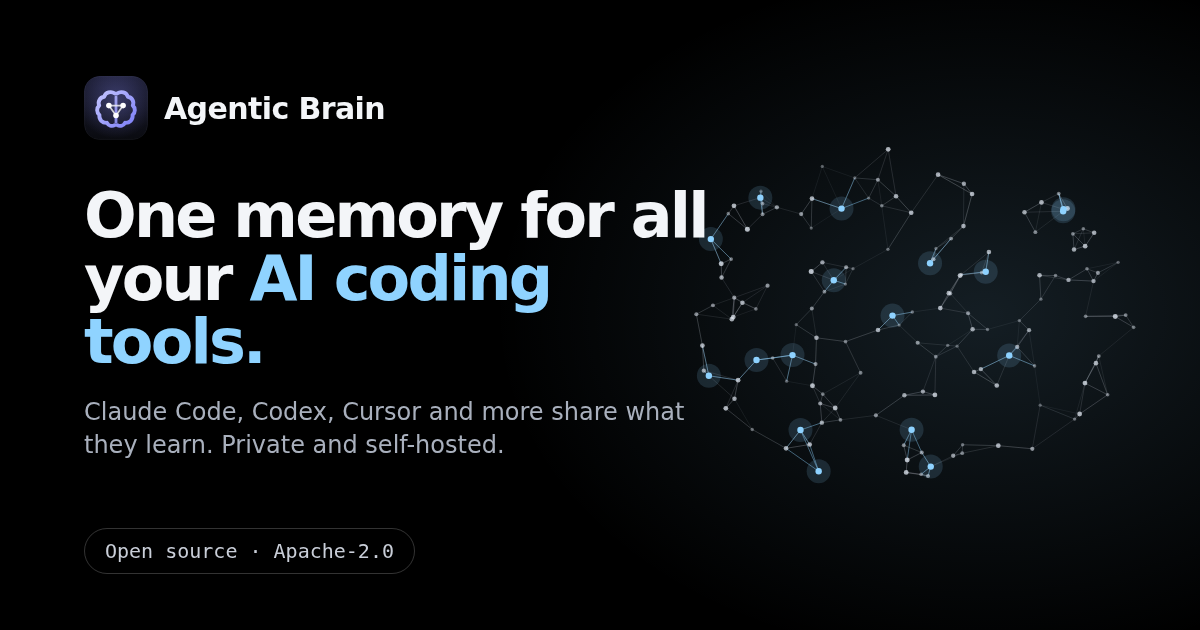
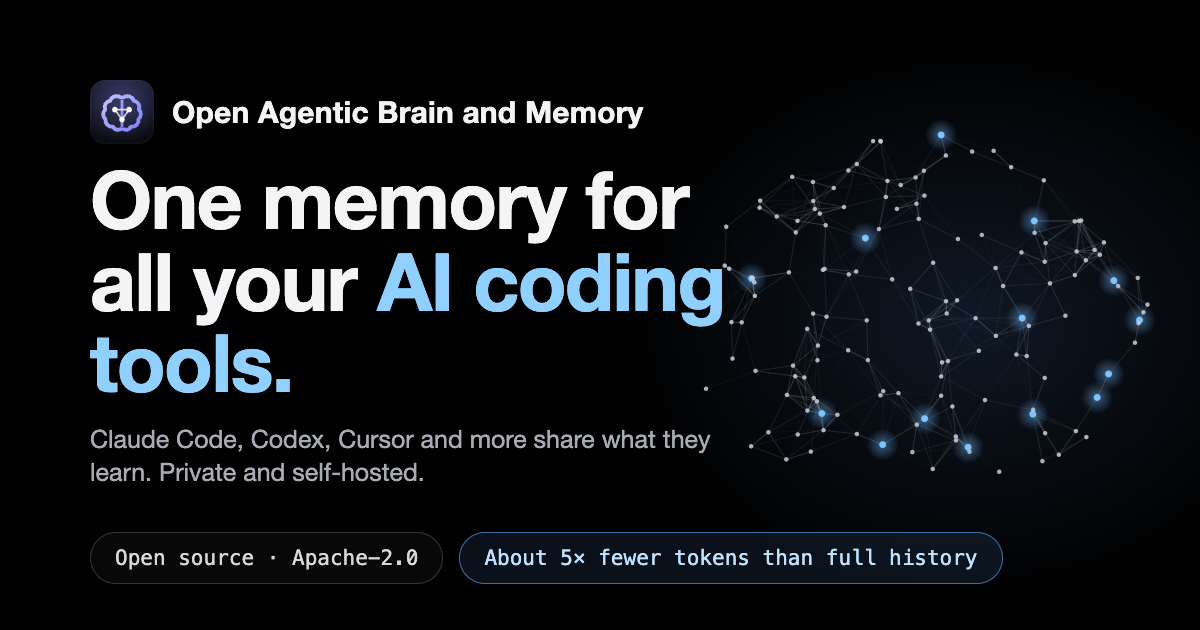
Share card: new name, tokens line, source template (_src/og); cache-bust og image

diff --git a/_src/og/og.html b/_src/og/og.html
@@ -1,0 +1,34 @@
+<!doctype html>
+<!-- Source for img/og.png (the link-preview card). Render: see _src/og/README.md -->
+<html><head><meta charset="utf-8"><title>og</title>
+<style>
+  *{box-sizing:border-box;margin:0}
+  html,body{width:1200px;height:630px;background:#000;overflow:hidden}
+  body{position:relative;font-family:"Helvetica Neue",Helvetica,Arial,sans-serif;color:#f4f4f6}
+  .glow{position:absolute;right:-120px;top:40px;width:700px;height:560px;border-radius:50%;background:radial-gradient(closest-side,rgba(70,110,170,.22),rgba(0,0,0,0))}
+  canvas{position:absolute;right:30px;top:100px}
+  .brand{position:absolute;left:90px;top:80px;display:flex;align-items:center;gap:18px;font-size:30px;font-weight:700;letter-spacing:.2px}
+  .brand img{width:64px;height:64px;border-radius:15px}
+  h1{position:absolute;left:90px;top:158px;width:700px;font-size:80px;line-height:1.02;font-weight:800;letter-spacing:-1.5px}
+  h1 b{color:#8fd0ff;font-weight:800}
+  p.sub{position:absolute;left:90px;top:422px;width:660px;font-size:25px;line-height:1.32;color:#a9abb4}
+  .pills{position:absolute;left:90px;bottom:46px;display:flex;gap:16px}
+  .pill{font-family:"SF Mono",Menlo,monospace;font-size:21px;padding:13px 24px;border-radius:40px;border:1.5px solid #34353b;color:#d7d8de;background:rgba(255,255,255,.03)}
+  .pill.tok{border-color:#3f6fa6;color:#bfe3ff;background:rgba(80,140,210,.12)}
+</style></head><body>
+<div class="glow"></div><canvas id="g" width="520" height="440"></canvas>
+<div class="brand"><img src="../../img/icon.svg" alt="">Open Agentic Brain and Memory</div>
+<h1>One memory for all your <b>AI coding tools.</b></h1>
+<p class="sub">Claude Code, Codex, Cursor and more share what they learn. Private and self-hosted.</p>
+<div class="pills"><span class="pill">Open source · Apache-2.0</span><span class="pill tok">About 5× fewer tokens than full history</span></div>
+<script>
+// Deterministic node graph (seeded), so the card renders the same every time.
+let s=7;const r=()=>((s=(s*16807)%2147483647)/2147483647);
+const c=document.getElementById('g').getContext('2d'),W=520,H=440,pts=[];
+for(let i=0;i<150;i++){const a=r()*6.283,d=Math.sqrt(r());pts.push([W/2+Math.cos(a)*d*W*.46,H/2+Math.sin(a)*d*H*.44*(0.9+.1*Math.sin(a*3))])}
+c.lineWidth=1;
+for(let i=0;i<pts.length;i++)for(let j=i+1;j<pts.length;j++){const dx=pts[i][0]-pts[j][0],dy=pts[i][1]-pts[j][1],dd=Math.hypot(dx,dy);
+ if(dd<62&&r()<.55){c.strokeStyle=`rgba(190,200,215,${.34*(1-dd/62)})`;c.beginPath();c.moveTo(...pts[i]);c.lineTo(...pts[j]);c.stroke()}}
+pts.forEach((p,i)=>{const hot=i%11===0;if(hot){const g=c.createRadialGradient(p[0],p[1],0,p[0],p[1],16);g.addColorStop(0,'rgba(120,190,255,.45)');g.addColorStop(1,'rgba(120,190,255,0)');c.fillStyle=g;c.beginPath();c.arc(p[0],p[1],16,0,7);c.fill()}
+ c.fillStyle=hot?'#7cc4ff':'rgba(200,205,215,.85)';c.beginPath();c.arc(p[0],p[1],hot?3.4:2.2,0,7);c.fill()});
+</script></body></html>

diff --git a/index.html b/index.html
@@ -18,11 +18,11 @@ try{if(localStorage.getItem('ab-consent')==='granted')abLoadGA();}catch(e){}</sc
 <meta property="og:url" content="https://rohithhn.github.io/brain-site/">
 <meta property="og:title" content="Open Agentic Brain and Memory: Memory for AI Coding Agents">
 <meta property="og:description" content="One private, self-hosted memory shared by Claude Code, Codex, Cursor, Antigravity and Kilo Code. It remembers decisions across sessions and tools.">
-<meta property="og:image" content="https://rohithhn.github.io/brain-site/img/og.png">
+<meta property="og:image" content="https://rohithhn.github.io/brain-site/img/og.png?v=2">
 <meta property="og:image:width" content="1200">
 <meta property="og:image:height" content="630">
 <meta name="twitter:card" content="summary_large_image">
-<meta name="twitter:image" content="https://rohithhn.github.io/brain-site/img/og.png">
+<meta name="twitter:image" content="https://rohithhn.github.io/brain-site/img/og.png?v=2">
 <script type="application/ld+json">
 {"@context":"https://schema.org","@graph":[
  {"@type":"SoftwareApplication","name":"Open Agentic Brain and Memory","url":"https://rohithhn.github.io/brain-site/",
@@ -30,7 +30,7 @@ try{if(localStorage.getItem('ab-consent')==='granted')abLoadGA();}catch(e){}</sc
   "applicationCategory":"DeveloperApplication","operatingSystem":"macOS, Linux","license":"https://www.apache.org/licenses/LICENSE-2.0",
   "offers":{"@type":"Offer","price":"0","priceCurrency":"USD"},
   "downloadUrl":"https://github.com/rohithhn/Open-Agentic-Brain-and-Memory","codeRepository":"https://github.com/rohithhn/Open-Agentic-Brain-and-Memory",
-  "image":"https://rohithhn.github.io/brain-site/img/og.png",
+  "image":"https://rohithhn.github.io/brain-site/img/og.png?v=2",
   "author":[{"@type":"Person","name":"Rohith"},{"@type":"Person","name":"Chandan"},{"@type":"Person","name":"Sushmita"}]},
  {"@type":"WebSite","name":"Open Agentic Brain and Memory","url":"https://rohithhn.github.io/brain-site/"}
 ]}

diff --git a/contact.html b/contact.html
@@ -18,11 +18,11 @@ try{if(localStorage.getItem('ab-consent')==='granted')abLoadGA();}catch(e){}</sc
 <meta property="og:url" content="https://rohithhn.github.io/brain-site/contact.html">
 <meta property="og:title" content="Contact Open Agentic Brain and Memory">
 <meta property="og:description" content="How to reach the Open Agentic Brain and Memory team: email, GitHub issues and private security reports.">
-<meta property="og:image" content="https://rohithhn.github.io/brain-site/img/og.png">
+<meta property="og:image" content="https://rohithhn.github.io/brain-site/img/og.png?v=2">
 <meta property="og:image:width" content="1200">
 <meta property="og:image:height" content="630">
 <meta name="twitter:card" content="summary_large_image">
-<meta name="twitter:image" content="https://rohithhn.github.io/brain-site/img/og.png">
+<meta name="twitter:image" content="https://rohithhn.github.io/brain-site/img/og.png?v=2">
 
 <meta name="theme-color" content="#000000">
 <link rel="icon" type="image/svg+xml" href="img/icon.svg"><link rel="icon" type="image/png" sizes="32x32" href="img/icon-32.png"><link rel="apple-touch-icon" href="img/apple-touch-icon.png">

diff --git a/journey.html b/journey.html
@@ -18,11 +18,11 @@ try{if(localStorage.getItem('ab-consent')==='granted')abLoadGA();}catch(e){}</sc
 <meta property="og:url" content="https://rohithhn.github.io/brain-site/journey.html">
 <meta property="og:title" content="One Memory's Journey">
 <meta property="og:description" content="Follow one decision from a Claude Code session to a different tool on a different laptop.">
-<meta property="og:image" content="https://rohithhn.github.io/brain-site/img/og.png">
+<meta property="og:image" content="https://rohithhn.github.io/brain-site/img/og.png?v=2">
 <meta property="og:image:width" content="1200">
 <meta property="og:image:height" content="630">
 <meta name="twitter:card" content="summary_large_image">
-<meta name="twitter:image" content="https://rohithhn.github.io/brain-site/img/og.png">
+<meta name="twitter:image" content="https://rohithhn.github.io/brain-site/img/og.png?v=2">
 
 <meta name="theme-color" content="#000000">
 <link rel="icon" type="image/svg+xml" href="img/icon.svg"><link rel="icon" type="image/png" sizes="32x32" href="img/icon-32.png"><link rel="apple-touch-icon" href="img/apple-touch-icon.png">

diff --git a/privacy.html b/privacy.html
@@ -18,11 +18,11 @@ try{if(localStorage.getItem('ab-consent')==='granted')abLoadGA();}catch(e){}</sc
 <meta property="og:url" content="https://rohithhn.github.io/brain-site/privacy.html">
 <meta property="og:title" content="Open Agentic Brain and Memory Privacy">
 <meta property="og:description" content="What this website and Open Agentic Brain and Memory do with your data.">
-<meta property="og:image" content="https://rohithhn.github.io/brain-site/img/og.png">
+<meta property="og:image" content="https://rohithhn.github.io/brain-site/img/og.png?v=2">
 <meta property="og:image:width" content="1200">
 <meta property="og:image:height" content="630">
 <meta name="twitter:card" content="summary_large_image">
-<meta name="twitter:image" content="https://rohithhn.github.io/brain-site/img/og.png">
+<meta name="twitter:image" content="https://rohithhn.github.io/brain-site/img/og.png?v=2">
 
 <meta name="theme-color" content="#000000">
 <link rel="icon" type="image/svg+xml" href="img/icon.svg"><link rel="icon" type="image/png" sizes="32x32" href="img/icon-32.png"><link rel="apple-touch-icon" href="img/apple-touch-icon.png">

diff --git a/voice.html b/voice.html
@@ -18,11 +18,11 @@ try{if(localStorage.getItem('ab-consent')==='granted')abLoadGA();}catch(e){}</sc
 <meta property="og:url" content="https://rohithhn.github.io/brain-site/voice.html">
 <meta property="og:title" content="I Remember">
 <meta property="og:description" content="The memory tells its own story, from the moment it is installed to awake, in first person.">
-<meta property="og:image" content="https://rohithhn.github.io/brain-site/img/og.png">
+<meta property="og:image" content="https://rohithhn.github.io/brain-site/img/og.png?v=2">
 <meta property="og:image:width" content="1200">
 <meta property="og:image:height" content="630">
 <meta name="twitter:card" content="summary_large_image">
-<meta name="twitter:image" content="https://rohithhn.github.io/brain-site/img/og.png">
+<meta name="twitter:image" content="https://rohithhn.github.io/brain-site/img/og.png?v=2">
 
 <meta name="theme-color" content="#000000">
 <link rel="icon" type="image/svg+xml" href="img/icon.svg"><link rel="icon" type="image/png" sizes="32x32" href="img/icon-32.png"><link rel="apple-touch-icon" href="img/apple-touch-icon.png">

diff --git a/week.html b/week.html
@@ -18,11 +18,11 @@ try{if(localStorage.getItem('ab-consent')==='granted')abLoadGA();}catch(e){}</sc
 <meta property="og:url" content="https://rohithhn.github.io/brain-site/week.html">
 <meta property="og:title" content="A Week Without Memory">
 <meta property="og:description" content="A developer's week with five AI tools that forget, until they share one brain.">
-<meta property="og:image" content="https://rohithhn.github.io/brain-site/img/og.png">
+<meta property="og:image" content="https://rohithhn.github.io/brain-site/img/og.png?v=2">
 <meta property="og:image:width" content="1200">
 <meta property="og:image:height" content="630">
 <meta name="twitter:card" content="summary_large_image">
-<meta name="twitter:image" content="https://rohithhn.github.io/brain-site/img/og.png">
+<meta name="twitter:image" content="https://rohithhn.github.io/brain-site/img/og.png?v=2">
 
 <meta name="theme-color" content="#000000">
 <link rel="icon" type="image/svg+xml" href="img/icon.svg"><link rel="icon" type="image/png" sizes="32x32" href="img/icon-32.png"><link rel="apple-touch-icon" href="img/apple-touch-icon.png">

diff --git a/_src/build.py b/_src/build.py
@@ -24,7 +24,7 @@ HOME_LD = """<script type="application/ld+json">
   "applicationCategory":"DeveloperApplication","operatingSystem":"macOS, Linux","license":"https://www.apache.org/licenses/LICENSE-2.0",
   "offers":{"@type":"Offer","price":"0","priceCurrency":"USD"},
   "downloadUrl":"https://github.com/rohithhn/Open-Agentic-Brain-and-Memory","codeRepository":"https://github.com/rohithhn/Open-Agentic-Brain-and-Memory",
-  "image":"https://rohithhn.github.io/brain-site/img/og.png",
+  "image":"https://rohithhn.github.io/brain-site/img/og.png?v=2",
   "author":[{"@type":"Person","name":"Rohith"},{"@type":"Person","name":"Chandan"},{"@type":"Person","name":"Sushmita"}]},
  {"@type":"WebSite","name":"Open Agentic Brain and Memory","url":"https://rohithhn.github.io/brain-site/"}
 ]}
@@ -111,11 +111,11 @@ for name, label in pages:
 <meta property="og:url" content="{url}">
 <meta property="og:title" content="{title}">
 <meta property="og:description" content="{desc}">
-<meta property="og:image" content="{SITE}img/og.png">
+<meta property="og:image" content="{SITE}img/og.png?v=2">
 <meta property="og:image:width" content="1200">
 <meta property="og:image:height" content="630">
 <meta name="twitter:card" content="summary_large_image">
-<meta name="twitter:image" content="{SITE}img/og.png">
+<meta name="twitter:image" content="{SITE}img/og.png?v=2">
 {HOME_LD if name == "index" else ""}
 <meta name="theme-color" content="#000000">
 {icon}

diff --git a/_src/og/README.md b/_src/og/README.md
@@ -1,0 +1,8 @@
+Source for `img/og.png`, the 1200x630 link-preview card used by og:image / twitter:image.
+
+Render (macOS, Chrome):
+
+    "/Applications/Google Chrome.app/Contents/MacOS/Google Chrome" --headless=new --hide-scrollbars \
+      --window-size=1200,630 --screenshot=img/og.png file://$PWD/_src/og/og.html
+
+Edit the text in og.html, re-render, commit both.
